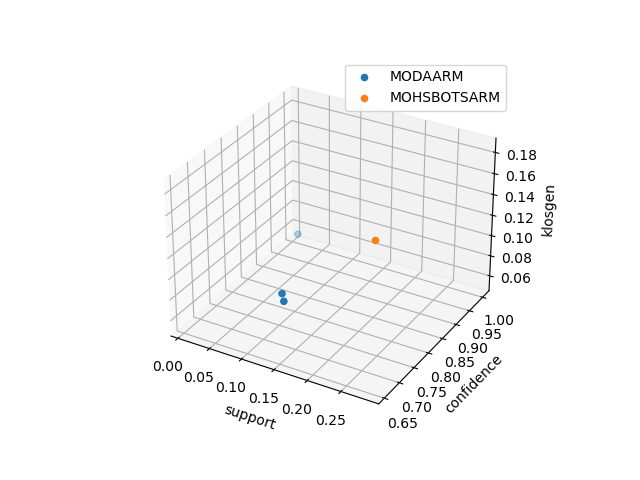
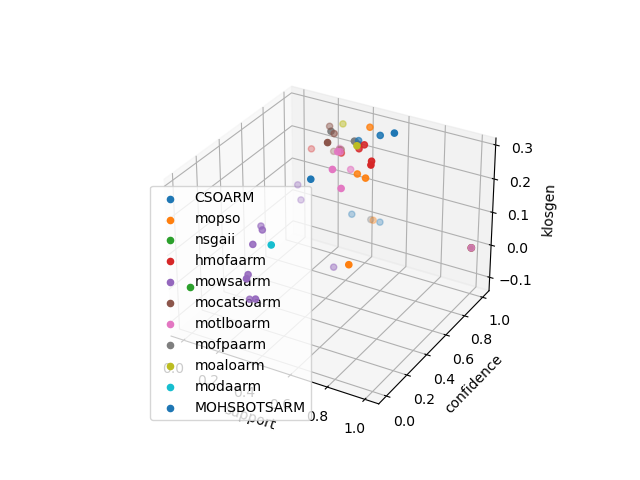
Add the number of rules performance tool

Changed region(s): [[0.2188, 0.125, 0.8438, 0.9062], [0.25, 0.8438, 0.2812, 0.875]]

diff --git a/main.py b/main.py
@@ -19,28 +19,28 @@ from src.Utils.Data import *
 from src.Utils.HyperParameters import *
 
 '''
-populationSize = 200
+populationSize = 300
 nbIteration = 10,
 objectiveNames = ['support','confidence','klosgen']
 parameterNames = ['s','a','c','f','e','w']
-d = Data('Data/Transform/congress.csv',header=0,indexCol=0)
+d = Data('Data/Transform/chess.data',header=0,indexCol=0)
 d.ToNumpy()
 modaarm = MODAARM(d.data.shape[1],populationSize,nbIteration,len(objectiveNames),objectiveNames,d.data)
 hyper = HyperParameters(parameterNames)
-hyper.RandomSearch(30,modaarm,d.data)
+hyper.RandomSearch(100,modaarm,d.data)
 hyper.SaveBestParameters('HyperParameters/MODAARM/bestParameters.json')
 '''
 
-nbIteration = 20
+nbIteration = 10
 populationSize = 200
 objectiveNames = ['support','confidence','klosgen']
 criterionList = ['scores','execution time']
-algorithmNameList = ['MODAARM','MOHSBOTSARM']
-#algorithmNameList = ['CSOARM','mopso','nsgaii','hmofaarm','mowsaarm','mocatsoarm','motlboarm','mofpaarm','moaloarm','modaarm']
+#algorithmNameList = ['MODAARM','MOHSBOTSARM']
+algorithmNameList = ['CSOARM','mopso','nsgaii','hmofaarm','mowsaarm','mocatsoarm','motlboarm','mofpaarm','moaloarm','modaarm','MOHSBOTSARM']
 
 perf = Performances(algorithmNameList,criterionList,objectiveNames)
 d = Data(artificial=True)
-d = Data('Data/Transform/abalone.data',header=0,indexCol=0)
+d = Data('Data/Transform/congress.csv',header=0,indexCol=0)
 #d.TransformToHorizontalBinary()
 #d.Save('Data/Transform/abalone.data')
 d.ToNumpy()
@@ -60,8 +60,8 @@ modaarm = MODAARM(d.data.shape[1],populationSize,nbIteration,len(objectiveNames)
 mohsbotsarm = MOHSBOTSARM(d.data.shape[1],populationSize,nbIteration,len(objectiveNames),objectiveNames,d.data)
 
 
-#algorithmList = [csoarm,mopso,nsgaii,hmofaarm,mowsaarm,mocatsoarm,motlboarm,mofpaarm,moaloarm,modaarm]
-algorithmList = [modaarm,mohsbotsarm]
+algorithmList = [csoarm,mopso,nsgaii,hmofaarm,mowsaarm,mocatsoarm,motlboarm,mofpaarm,moaloarm,modaarm,mohsbotsarm]
+#algorithmList = [modaarm,mohsbotsarm]
 for i in range(nbIteration):
     k = 0
     for alg in algorithmList:
@@ -71,13 +71,15 @@ for i in range(nbIteration):
         print(algorithmNameList[k])
         print(alg.fitness.paretoFront)
         k+=1
+
     graph = Graphs(objectiveNames,perf.scores,path='./Figures/Comparison/paretoFront'+str(i),display=True)
     graph.GraphScores()
+    graph = Graphs(objectiveNames, perf.nbRules, path='./Figures/Comparison/nbRules' + str(i), display=True)
+    graph.GraphNbRules()
     perf.UpdateLeaderBoard()
     perf.FreeScores()
 graph = Graphs(['execution Time'],perf.executionTime,path='./Figures/Comparison/execution_time',display=True)
 graph.GraphExecutionTime()
-
 
 
 

diff --git a/src/Utils/Performances.py b/src/Utils/Performances.py
@@ -6,11 +6,12 @@ class Performances:
         self.algorithmList = algorithmList
         self.criterionList = criterionList
         self.objectiveNames = objectiveNames
-        self.leaderBoard = np.array([0 for i in range(len(algorithmList))])
+        self.leaderBoard = np.zeros(len(algorithmList),dtype=float)
         self.Init()
 
     def InitScores(self):
         self.columnsScores = ['algorithm'] + self.objectiveNames
+        self.nbRules = pd.DataFrame(columns=['algorithm','nbRules'])
         self.scores = pd.DataFrame(columns=self.columnsScores)
 
     def InitExecutionTime(self):
@@ -29,8 +30,10 @@ class Performances:
     def UpdatePerformances(self,score = [],executionTime=[],i=0,algorithmName=''):
         if 'scores' in self.criterionList:
             score = [[algorithmName]+list(score[i]) for i in range(len(score))]
+            nbRule = pd.DataFrame([[algorithmName,len(score)]],columns=['algorithm','nbRules'])
             scoreDF = pd.DataFrame(score,columns=self.columnsScores)
             self.scores = self.scores.append(scoreDF, ignore_index=True)
+            self.nbRules = self.nbRules.append(nbRule,ignore_index=True)
         if 'execution time' in self.criterionList:
             executionTimeDF = pd.DataFrame([[i,algorithmName,executionTime]],columns=self.columnsET)
             self.executionTime = self.executionTime.append(executionTimeDF, ignore_index=True)
@@ -46,7 +49,7 @@ class Performances:
                     domination = fitness.Domination(solutionsi[j],solutionsj[k])
                     if domination == -1:
                         self.leaderBoard[i]+=1
-            self.leaderBoard[i] = self.leaderBoard[i]/len(solutionsi)
+            self.leaderBoard[i] = self.leaderBoard[i]/(len(solutionsi)+len(solutionsj))
         self.leaderBoardSorted = list(zip(self.leaderBoard, self.algorithmList))
         self.leaderBoardSorted = np.array(sorted(self.leaderBoardSorted, key=lambda x: x[0],reverse=True), dtype="object")
         print(self.scores)

diff --git a/src/Utils/Graphs.py b/src/Utils/Graphs.py
@@ -21,6 +21,16 @@ class Graphs:
         if not pathExist :
             os.mkdir(p)
 
+    def GraphNbRules(self):
+        fig = plt.figure()
+        sns.barplot(x='algorithm', y='nbRules', data=self.data)
+        plt.xticks(rotation=70)
+        plt.tight_layout()
+        if self.display:
+            plt.show()
+        if self.save:
+            fig.savefig(self.path + ".png")
+
     def GraphExecutionTime(self):
         fig = plt.figure()
         sns.lineplot(x='i',y='execution Time',hue='algorithm',data=self.data)

diff --git a/src/Utils/HyperParameters.py b/src/Utils/HyperParameters.py
@@ -36,7 +36,7 @@ class HyperParameters:
                 perf.UpdateLeaderBoard()
                 best = perf.leaderBoard[0]
                 candidate = perf.leaderBoard[1]
-                if candidate>=best:
+                if candidate>best:
                     candidateScores = perf.scores[perf.scores['algorithm'] == 'candidate']
                     candidateScores['algorithm'] = 'best'
                     perf.scores = copy.deepcopy(candidateScores)

diff --git a/src/Algorithm/MOALOARM.py b/src/Algorithm/MOALOARM.py
@@ -55,7 +55,10 @@ class MOALOARM:
                 domination = self.fitness.Domination(self.fitness.scores[i],self.fitness.scores[j])
                 if domination == 1:
                     candidate.append(i)
-        index = rd.choice(candidate)
+        if len(candidate) == 0:
+            index= rd.randint(0,self.lions.populationSize-1)
+        else:
+            index = rd.choice(candidate)
         return index
 
     def UpdateBounds(self,i):
